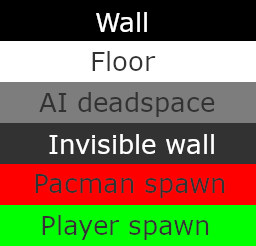
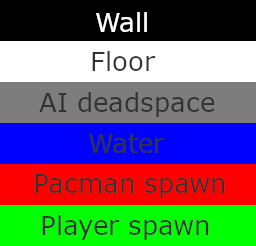
dynamic rectangle detection

Changed region(s): [[0.0, 0.4837, 1.0, 0.6829]]

diff --git a/js/Level.js b/js/Level.js
@@ -1,12 +1,12 @@
 import * as THREE from "../node_modules/three/build/three.module.js";
-import { Wall } from "./Wall.js";
+import { Wall } from "./Objects/Wall.js";
 
 const LEVELFOLDER = "../levels/";
 
 const FLOOR = 0;
 const WALL = 1;
 const DEAD_SPACE = 2;
-const INVIS_WALL = 3;
+const WATER = 3;
 
 const SCALE_FACTOR = 2;
 
@@ -19,6 +19,7 @@ export class Level {
 	static #pacmanSpawn = new THREE.Vector3();
 	static collisionObjects = [];
 	static cameraCollisionObjects = [];
+	static coins = [];
 
 	static levelLoaded = new Event("levelLoaded");
 
@@ -85,9 +86,9 @@ export class Level {
 					} else if (equals(data, [125, 125, 125, 255])) {
 						// GRAY | Dead wall -> Won't spawn a wall but won't be walkable for the AI
 						tile = DEAD_SPACE;
-					} else if (equals(data, [50, 50, 50, 255])) {
-						// DARK GRAY | Invisible wall -> Not walkabale for player and AI, but won't be visible
-						tile = INVIS_WALL;
+					} else if (equals(data, [0, 0, 255, 255])) {
+						// BLUE | Water -> Not walkabale for player and AI
+						tile = WATER;
 					} else if (equals(data, [255, 255, 255, 255])) {
 						// WHITE | Floor
 						tile = FLOOR;
@@ -117,9 +118,9 @@ export class Level {
 							this.#levelDataAi[x][y] = WALL;
 							this.#levelGenData[x][y] = FLOOR;
 							break;
-						case INVIS_WALL:
+						case WATER:
 							this.#levelDataAi[x][y] = WALL;
-							this.#levelGenData[x][y] = INVIS_WALL;
+							this.#levelGenData[x][y] = WATER;
 						default:
 							this.#levelDataAi[x][y] = tile;
 							this.#levelGenData[x][y] = tile;
@@ -150,8 +151,15 @@ export class Level {
 			this.#level.add(floor);
 			this.cameraCollisionObjects.push(floor);
 
-			// Scan map matrix and generate better walls
-			this.createWalls();
+			const walls = this.getRectangles(WALL);
+			for (let i = 0; i < walls.length; i++) {
+				const rect = walls[i];
+				const w = rect.x2 - rect.x1 + 1;
+				const h = rect.y2 - rect.y1 + 1;
+				const wall = new Wall(rect.x1 + w / 2, rect.y1 + h / 2, w, h);
+				this.#level.add(wall.model);
+				this.collisionObjects.push(wall);
+			}
 
 			this.setCollisionList();
 
@@ -194,8 +202,10 @@ export class Level {
 	}
 
 	/** Will find rectangles in a matrix/2d array */
-	static createWalls() {
+	static getRectangles(tileID) {
 		let map = this.#levelGenData;
+
+		let rectangles = [];
 
 		const WIDTH = map.length;
 		const HEIGHT = map[0].length;
@@ -210,7 +220,7 @@ export class Level {
 				invisible: false,
 			};
 
-			if (map[x][y] == FLOOR) {
+			if (map[x][y] != tileID) {
 				// Tile is a floor
 				x += 1;
 				if (x == WIDTH) {
@@ -226,13 +236,13 @@ export class Level {
 				return findLargestRect(x, y);
 			}
 
-			if (map[x][y] == WALL) {
+			if (map[x][y] == tileID) {
 				// Tile is a wall, so we get the biggest rectangle possible from this location
 
 				// Find bottom right corner
 				// First we find largest possible X value
 				for (let x = rect.x1; x < WIDTH; x++) {
-					if (map[x][rect.y1] != WALL) {
+					if (map[x][rect.y1] != tileID) {
 						// If a floor is encountered on the horizonal axis
 						rect.x2 = x - 1;
 						break;
@@ -247,7 +257,7 @@ export class Level {
 							yValues.push(HEIGHT - 1);
 							break;
 						}
-						if (map[x][y] != WALL) {
+						if (map[x][y] != tileID) {
 							yValues.push(y - 1);
 							break;
 						}
@@ -282,8 +292,10 @@ export class Level {
 			}
 		};
 
-		while (this.containsWalls(map)) {
+		while (this.containsTile(map, tileID)) {
 			const largestRect = findLargestRect(0, 0);
+
+			rectangles.push(largestRect);
 
 			// Remove rectangle from map so it doesn't get found again
 			for (let y = largestRect.y1; y <= largestRect.y2; y++) {
@@ -291,24 +303,14 @@ export class Level {
 					map[x][y] = FLOOR;
 				}
 			}
-
-			const w = largestRect.x2 - largestRect.x1 + 1;
-			const h = largestRect.y2 - largestRect.y1 + 1;
-			const wall = new Wall(
-				largestRect.x1 + w / 2,
-				largestRect.y1 + h / 2,
-				w,
-				h
-			);
-			this.#level.add(wall.model);
-			this.collisionObjects.push(wall);
 		}
+		return rectangles;
 	}
 
-	static containsWalls(map) {
+	static containsTile(map, tileID) {
 		// console.log("Checking for walls");
 		for (let x = 0; x < map.length; x++) {
-			if (map[x].includes(WALL)) return true;
+			if (map[x].includes(tileID)) return true;
 		}
 		return false;
 	}

diff --git a/js/Objects/Water.js b/js/Objects/Water.js
@@ -1,6 +1,6 @@
-import * as THREE from "../node_modules/three/build/three.module.js";
-import { StaticBody } from "./CollisionSystem/StaticBody.js";
-import { Level } from "./Level.js";
+import * as THREE from "../../node_modules/three/build/three.module.js";
+import { StaticBody } from "../CollisionSystem/StaticBody.js";
+import { Level } from "../Level.js";
 
 export class Wall extends StaticBody {
 	constructor(posX, posZ, width, height) {
@@ -8,12 +8,12 @@ export class Wall extends StaticBody {
 
 		const SCALE_FACTOR = Level.getScaleFactor;
 
-		const mat = new THREE.MeshStandardMaterial({ color: 0xd6d6d6 });
+		const mat = new THREE.MeshStandardMaterial({ color: 0x679bf0 });
 
 		this.model = new THREE.Mesh(
 			new THREE.BoxGeometry(
 				SCALE_FACTOR * width,
-				SCALE_FACTOR * 5,
+				SCALE_FACTOR,
 				SCALE_FACTOR * height
 			),
 			mat
@@ -23,7 +23,7 @@ export class Wall extends StaticBody {
 		this.model.receiveShadow = true;
 		this.model.castShadow = true;
 		this.model.position.x = posX * SCALE_FACTOR - 0.5 * SCALE_FACTOR;
-		this.model.position.y = SCALE_FACTOR * 2.5;
+		this.model.position.y = 0;
 		this.model.position.z = posZ * SCALE_FACTOR - 0.5 * SCALE_FACTOR;
 
 		this.calcExtents(this.model.geometry);

diff --git a/js/Objects/Wall.js b/js/Objects/Wall.js
@@ -1,0 +1,31 @@
+import * as THREE from "../../node_modules/three/build/three.module.js";
+import { StaticBody } from "../CollisionSystem/StaticBody.js";
+import { Level } from "../Level.js";
+
+export class Wall extends StaticBody {
+	constructor(posX, posZ, width, height) {
+		super();
+
+		const SCALE_FACTOR = Level.getScaleFactor;
+
+		const mat = new THREE.MeshStandardMaterial({ color: 0xd6d6d6 });
+
+		this.model = new THREE.Mesh(
+			new THREE.BoxGeometry(
+				SCALE_FACTOR * width,
+				SCALE_FACTOR * 5,
+				SCALE_FACTOR * height
+			),
+			mat
+		);
+
+		this.model.layers.enable(1);
+		this.model.receiveShadow = true;
+		this.model.castShadow = true;
+		this.model.position.x = posX * SCALE_FACTOR - 0.5 * SCALE_FACTOR;
+		this.model.position.y = SCALE_FACTOR * 2.5;
+		this.model.position.z = posZ * SCALE_FACTOR - 0.5 * SCALE_FACTOR;
+
+		this.calcExtents(this.model.geometry);
+	}
+}

diff --git a/js/InvertedPacMan.js b/js/InvertedPacMan.js
@@ -1,7 +1,7 @@
 import * as THREE from "../node_modules/three/build/three.module.js";
-import { EffectComposer } from "three/examples/jsm/postprocessing/EffectComposer.js";
-import { RenderPass } from "three/examples/jsm/postprocessing/RenderPass.js";
-import { UnrealBloomPass } from "three/examples/jsm/postprocessing/UnrealBloomPass";
+import { EffectComposer } from "../node_modules/three/examples/jsm/postprocessing/EffectComposer.js";
+import { RenderPass } from "../node_modules/three/examples/jsm/postprocessing/RenderPass.js";
+import { UnrealBloomPass } from "../node_modules/three/examples/jsm/postprocessing/UnrealBloomPass";
 import { Player } from "./Player.js";
 import { Skybox } from "./Skybox.js";
 import { Level } from "./Level.js";

diff --git a/js/CollisionSystem/StaticBody.js b/js/CollisionSystem/StaticBody.js
@@ -9,8 +9,6 @@ export class StaticBody extends Collision {
 
 	constructor() {
 		super();
-
-		Level.collisionObjects.push(this);
 	}
 
 	calcExtents(geom) {
